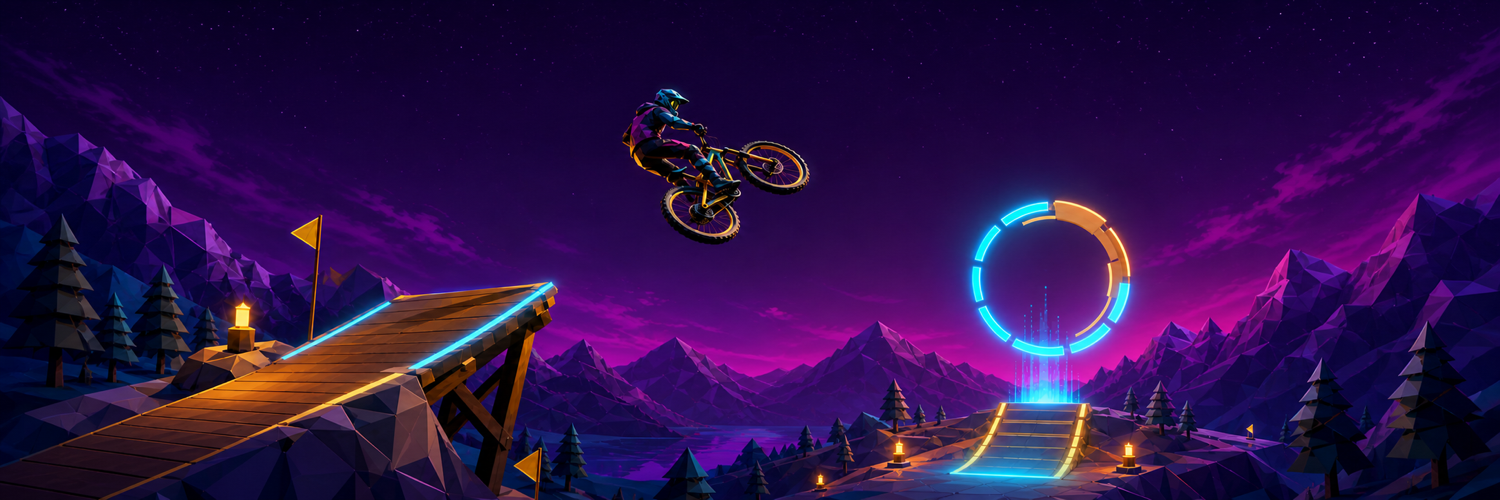
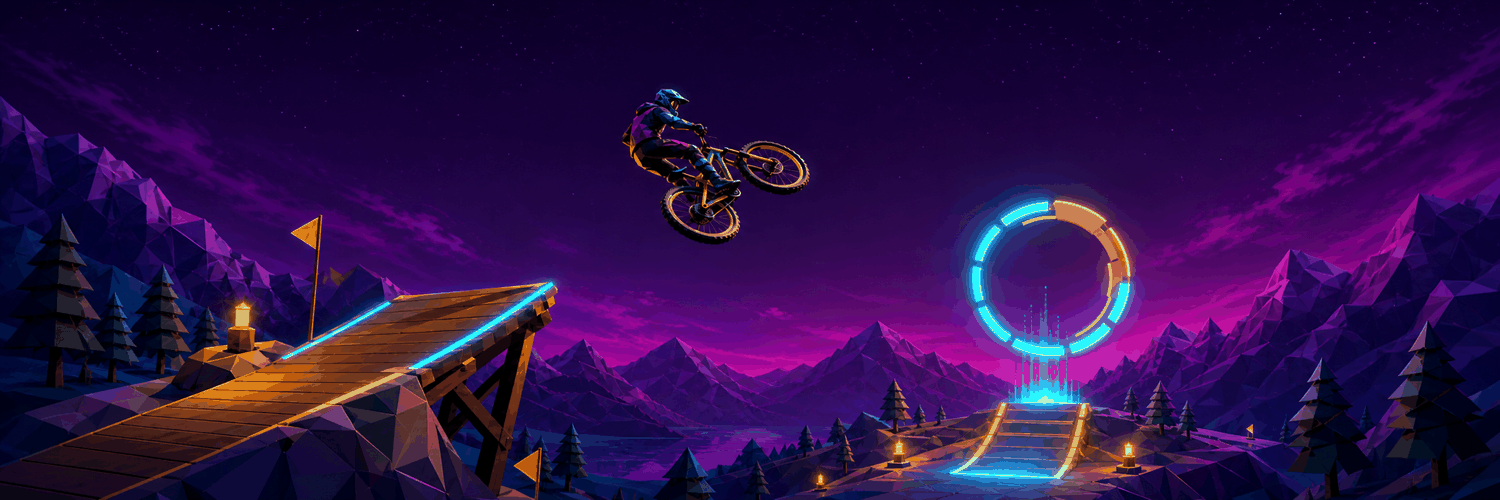
Polish pass: -1.8MB assets, CDN-proof shops, stale copy, SW cache (#41)
Full audit of every page + both game modes, then fixed what it surfaced.

PERFORMANCE (biggest win — media 2.3MB -> 496KB)
- redline-rider-logo-1x1.png was 1500x1500 / 1234KB but renders at <=74px
  (and 180px as apple-touch-icon): resized to 512x512 -> 173KB
- redline-rider-banner-1500x500.png 1035KB -> 255KB (optimized + 256c;
  verified visually, gradients intact)
- both are service-worker precached, so this is ~1.8MB every PWA install
  no longer downloads
- play.html still declared the 1MB banner as the #title backdrop even
  though the live-gameplay override replaced it — removed the dead rule

RESILIENCE
- market.html + skins.html still pulled three + addons from unpkg while
  the game runs vendored copies: a CDN outage broke the shop but not the
  game. Vendored RoomEnvironment.js (the only missing addon) and pointed
  both importmaps at /vendor. Verified: 0 unpkg requests, 3D still renders.

CORRECTNESS / COPY
- market: "PROGRESS SAVED ON THIS DEVICE" was wrong since accounts went
  server-backed -> "SAVED TO YOUR RIDER ID"
- skins: "DESIGN PREVIEW · V3 · NOT IN GAME YET" was wrong since skins
  shipped -> "ALL 21 RIDERS · 15 BIKES · LIVE IN GAME"

SERVICE WORKER
- CACHE redline-v4 -> v5 (mandatory: precached assets changed, or PWA
  users keep the old 2.2MB images forever)
- precache the new primary logo (rr.png) + RoomEnvironment + skins.html
- dropped redundant './index.html' ('./' already caches it)
[…]

diff --git a/vendor/three/addons/environments/RoomEnvironment.js b/vendor/three/addons/environments/RoomEnvironment.js
@@ -1,0 +1,148 @@
+/**
+ * https://github.com/google/model-viewer/blob/master/packages/model-viewer/src/three-components/EnvironmentScene.ts
+ */
+
+import {
+ 	BackSide,
+ 	BoxGeometry,
+ 	Mesh,
+	MeshBasicMaterial,
+ 	MeshStandardMaterial,
+ 	PointLight,
+ 	Scene,
+} from 'three';
+
+class RoomEnvironment extends Scene {
+
+	constructor( renderer = null ) {
+
+		super();
+
+		const geometry = new BoxGeometry();
+		geometry.deleteAttribute( 'uv' );
+
+		const roomMaterial = new MeshStandardMaterial( { side: BackSide } );
+		const boxMaterial = new MeshStandardMaterial();
+
+		let intensity = 5;
+
+		if ( renderer !== null && renderer._useLegacyLights === false ) intensity = 900;
+
+		const mainLight = new PointLight( 0xffffff, intensity, 28, 2 );
+		mainLight.position.set( 0.418, 16.199, 0.300 );
+		this.add( mainLight );
+
+		const room = new Mesh( geometry, roomMaterial );
+		room.position.set( - 0.757, 13.219, 0.717 );
+		room.scale.set( 31.713, 28.305, 28.591 );
+		this.add( room );
+
+		const box1 = new Mesh( geometry, boxMaterial );
+		box1.position.set( - 10.906, 2.009, 1.846 );
+		box1.rotation.set( 0, - 0.195, 0 );
+		box1.scale.set( 2.328, 7.905, 4.651 );
+		this.add( box1 );
+
+		const box2 = new Mesh( geometry, boxMaterial );
+		box2.position.set( - 5.607, - 0.754, - 0.758 );
+		box2.rotation.set( 0, 0.994, 0 );
+		box2.scale.set( 1.970, 1.534, 3.955 );
+		this.add( box2 );
+
+		const box3 = new Mesh( geometry, boxMaterial );
+		box3.position.set( 6.167, 0.857, 7.803 );
+		box3.rotation.set( 0, 0.561, 0 );
+		box3.scale.set( 3.927, 6.285, 3.687 );
+		this.add( box3 );
+
+		const box4 = new Mesh( geometry, boxMaterial );
+		box4.position.set( - 2.017, 0.018, 6.124 );
+		box4.rotation.set( 0, 0.333, 0 );
+		box4.scale.set( 2.002, 4.566, 2.064 );
+		this.add( box4 );
+
+		const box5 = new Mesh( geometry, boxMaterial );
+		box5.position.set( 2.291, - 0.756, - 2.621 );
+		box5.rotation.set( 0, - 0.286, 0 );
+		box5.scale.set( 1.546, 1.552, 1.496 );
+		this.add( box5 );
+
+		const box6 = new Mesh( geometry, boxMaterial );
+		box6.position.set( - 2.193, - 0.369, - 5.547 );
+		box6.rotation.set( 0, 0.516, 0 );
+		box6.scale.set( 3.875, 3.487, 2.986 );
+		this.add( box6 );
+
+
+		// -x right
+		const light1 = new Mesh( geometry, createAreaLightMaterial( 50 ) );
+		light1.position.set( - 16.116, 14.37, 8.208 );
+		light1.scale.set( 0.1, 2.428, 2.739 );
+		this.add( light1 );
+
+		// -x left
+		const light2 = new Mesh( geometry, createAreaLightMaterial( 50 ) );
+		light2.position.set( - 16.109, 18.021, - 8.207 );
+		light2.scale.set( 0.1, 2.425, 2.751 );
+		this.add( light2 );
+
+		// +x
+		const light3 = new Mesh( geometry, createAreaLightMaterial( 17 ) );
+		light3.position.set( 14.904, 12.198, - 1.832 );
+		light3.scale.set( 0.15, 4.265, 6.331 );
+		this.add( light3 );
+
+		// +z
+		const light4 = new Mesh( geometry, createAreaLightMaterial( 43 ) );
+		light4.position.set( - 0.462, 8.89, 14.520 );
+		light4.scale.set( 4.38, 5.441, 0.088 );
+		this.add( light4 );
+
+		// -z
+		const light5 = new Mesh( geometry, createAreaLightMaterial( 20 ) );
+		light5.position.set( 3.235, 11.486, - 12.541 );
+		light5.scale.set( 2.5, 2.0, 0.1 );
+		this.add( light5 );
+
+		// +y
+		const light6 = new Mesh( geometry, createAreaLightMaterial( 100 ) );
+		light6.position.set( 0.0, 20.0, 0.0 );
+		light6.scale.set( 1.0, 0.1, 1.0 );
+		this.add( light6 );
+
+	}
+
+	dispose() {
+
+		const resources = new Set();
+
+		this.traverse( ( object ) => {
+
+			if ( object.isMesh ) {
+
+				resources.add( object.geometry );
+				resources.add( object.material );
+
+			}
+
+		} );
+
+		for ( const resource of resources ) {
+
+			resource.dispose();
+
+		}
+
+	}
+
+}
+
+function createAreaLightMaterial( intensity ) {
+
+	const material = new MeshBasicMaterial();
+	material.color.setScalar( intensity );
+	return material;
+
+}
+
+export { RoomEnvironment };

diff --git a/skins.html b/skins.html
@@ -6,7 +6,6 @@
 <meta name="theme-color" content="#1a1040">
 <title>REDLINE RIDER — Skin Shop</title>
 <link rel="icon" href="media/redline-rider-rr.png">
-<link rel="preconnect" href="https://unpkg.com" crossorigin>
 <link href="https://fonts.googleapis.com/css2?family=Rajdhani:wght@500;700&display=swap" rel="stylesheet">
 <style>
   * { margin:0; padding:0; box-sizing:border-box; -webkit-tap-highlight-color:transparent; }
@@ -46,7 +45,7 @@
 <div id="hdr">
   <img src="media/redline-rider-rr.png" alt="" style="height:44px;width:44px;margin:0 auto 10px;display:block;filter:drop-shadow(0 0 10px rgba(255,48,76,.5))" onerror="this.onerror=null;this.src='media/redline-rider-logo-1x1.png'">
   <h1>SKIN SHOP</h1>
-  <div class="sub">DESIGN PREVIEW · V3 · NOT IN GAME YET</div>
+  <div class="sub">ALL 21 RIDERS · 15 BIKES · LIVE IN GAME</div>
 </div>
 <div id="tabs">
   <button id="tabRiders" class="on">RIDERS</button>
@@ -56,8 +55,8 @@
 
 <script type="importmap">
 { "imports": {
-  "three": "https://unpkg.com/three@0.160.0/build/three.module.js",
-  "three/addons/": "https://unpkg.com/three@0.160.0/examples/jsm/"
+  "three": "/vendor/three/three.module.js",
+  "three/addons/": "/vendor/three/addons/"
 } }
 </script>
 <script type="module">

diff --git a/market.html b/market.html
@@ -6,7 +6,6 @@
 <meta name="theme-color" content="#1a1040">
 <title>REDLINE RIDER — Marketplace</title>
 <link rel="icon" href="media/redline-rider-rr.png">
-<link rel="preconnect" href="https://unpkg.com" crossorigin>
 <link href="https://fonts.googleapis.com/css2?family=Rajdhani:wght@500;700&display=swap" rel="stylesheet">
 <style>
   * { margin:0; padding:0; box-sizing:border-box; -webkit-tap-highlight-color:transparent; }
@@ -94,13 +93,13 @@
   </div>
   <div id="actionWrap"><button id="action">EQUIP</button></div>
   <div id="rail"></div>
-  <div id="note">COINS EARNED BY RIDING · PROGRESS SAVED ON THIS DEVICE</div>
+  <div id="note">COINS EARNED BY RIDING · PROGRESS SAVED TO YOUR RIDER ID</div>
 </div>
 
 <script type="importmap">
 { "imports": {
-  "three": "https://unpkg.com/three@0.160.0/build/three.module.js",
-  "three/addons/": "https://unpkg.com/three@0.160.0/examples/jsm/"
+  "three": "/vendor/three/three.module.js",
+  "three/addons/": "/vendor/three/addons/"
 } }
 </script>
 <script type="module">

diff --git a/sw.js b/sw.js
@@ -15,22 +15,24 @@
 //   LIVE      (network only)  — /api/*.
 //
 // Bump CACHE on any change to this policy or the precache list.
-const CACHE = 'redline-v4';
+const CACHE = 'redline-v5';
 const PRECACHE = [
   './',
-  './index.html',
   './play.html',
   './market.html',
+  './skins.html',
   './economy.js',
   './skins-data.js',
   './manifest.webmanifest',
   './overseer-tuning.json',
   './overseer-core.mjs',
   './maps/ascent-01-verdant.json',
+  './media/redline-rider-rr.png',
   './media/redline-rider-logo-1x1.png',
   './media/redline-rider-banner-1500x500.png',
   './vendor/three/three.module.js',
   './vendor/three/addons/utils/BufferGeometryUtils.js',
+  './vendor/three/addons/environments/RoomEnvironment.js',
   './vendor/three/addons/postprocessing/EffectComposer.js',
   './vendor/three/addons/postprocessing/RenderPass.js',
   './vendor/three/addons/postprocessing/UnrealBloomPass.js',

diff --git a/play.html b/play.html
@@ -383,7 +383,6 @@
     background:
       linear-gradient(90deg, rgba(9,7,18,.96) 0%, rgba(9,7,18,.78) 42%, rgba(9,7,18,.2) 100%),
       linear-gradient(0deg, rgba(9,7,18,.88), rgba(9,7,18,.06) 42%, rgba(9,7,18,.72)),
-      url('media/redline-rider-banner-1500x500.png') center / cover no-repeat;
     transform:scale(1.02); }
   #title::after { content:''; position:absolute; inset:0; z-index:-1; pointer-events:none; opacity:.18;
     background:repeating-linear-gradient(0deg, transparent 0 8px, rgba(244,246,255,.08) 9px); }
